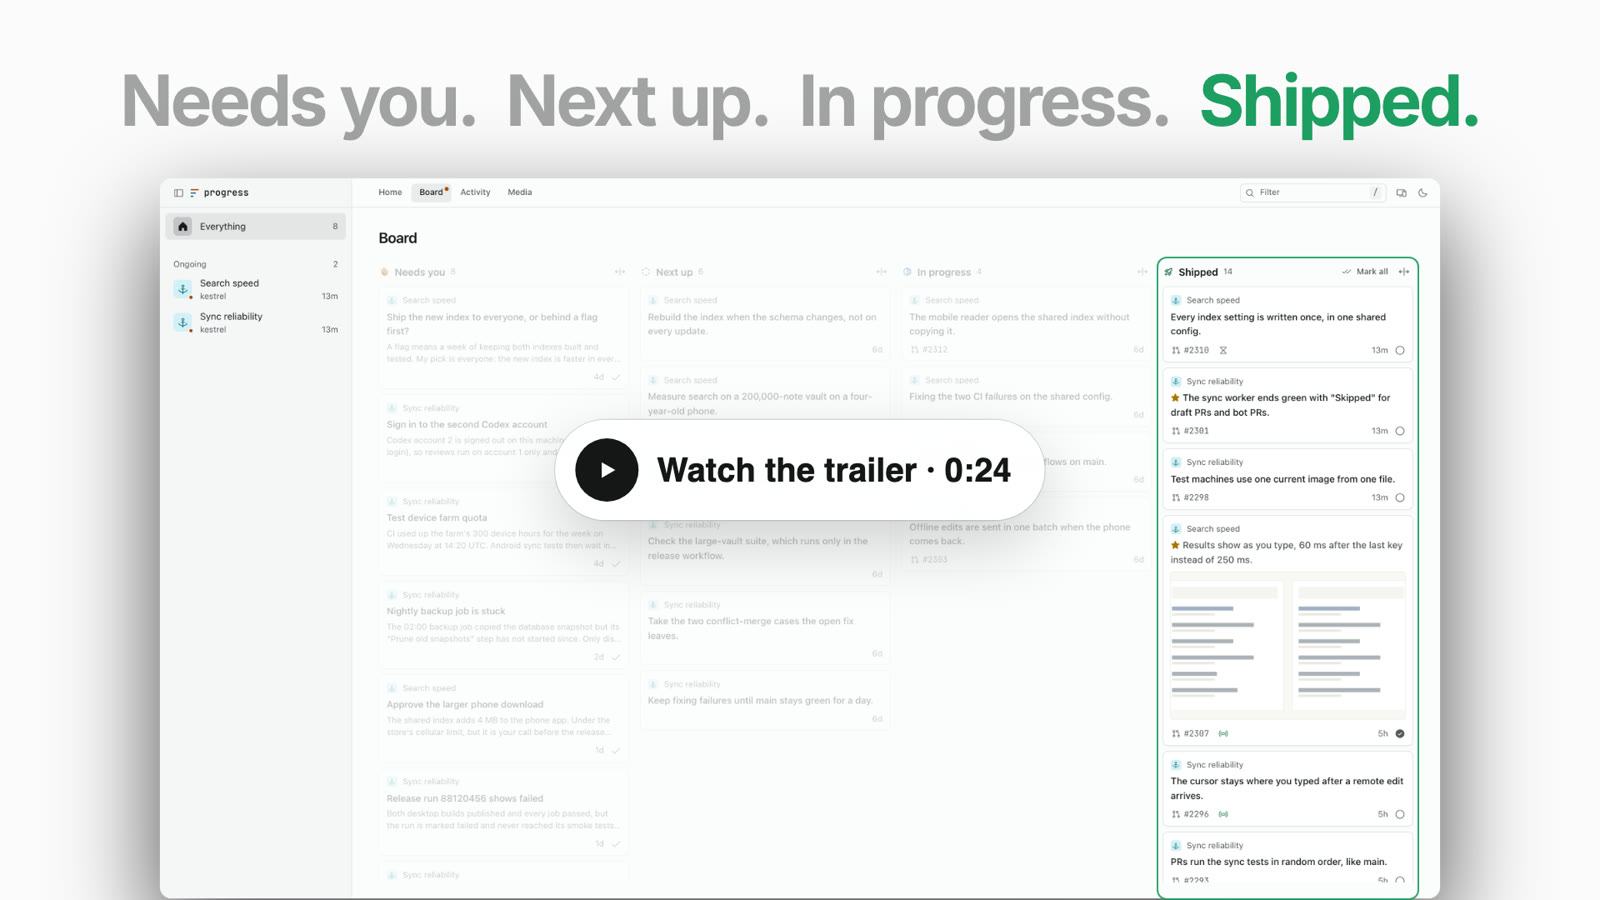
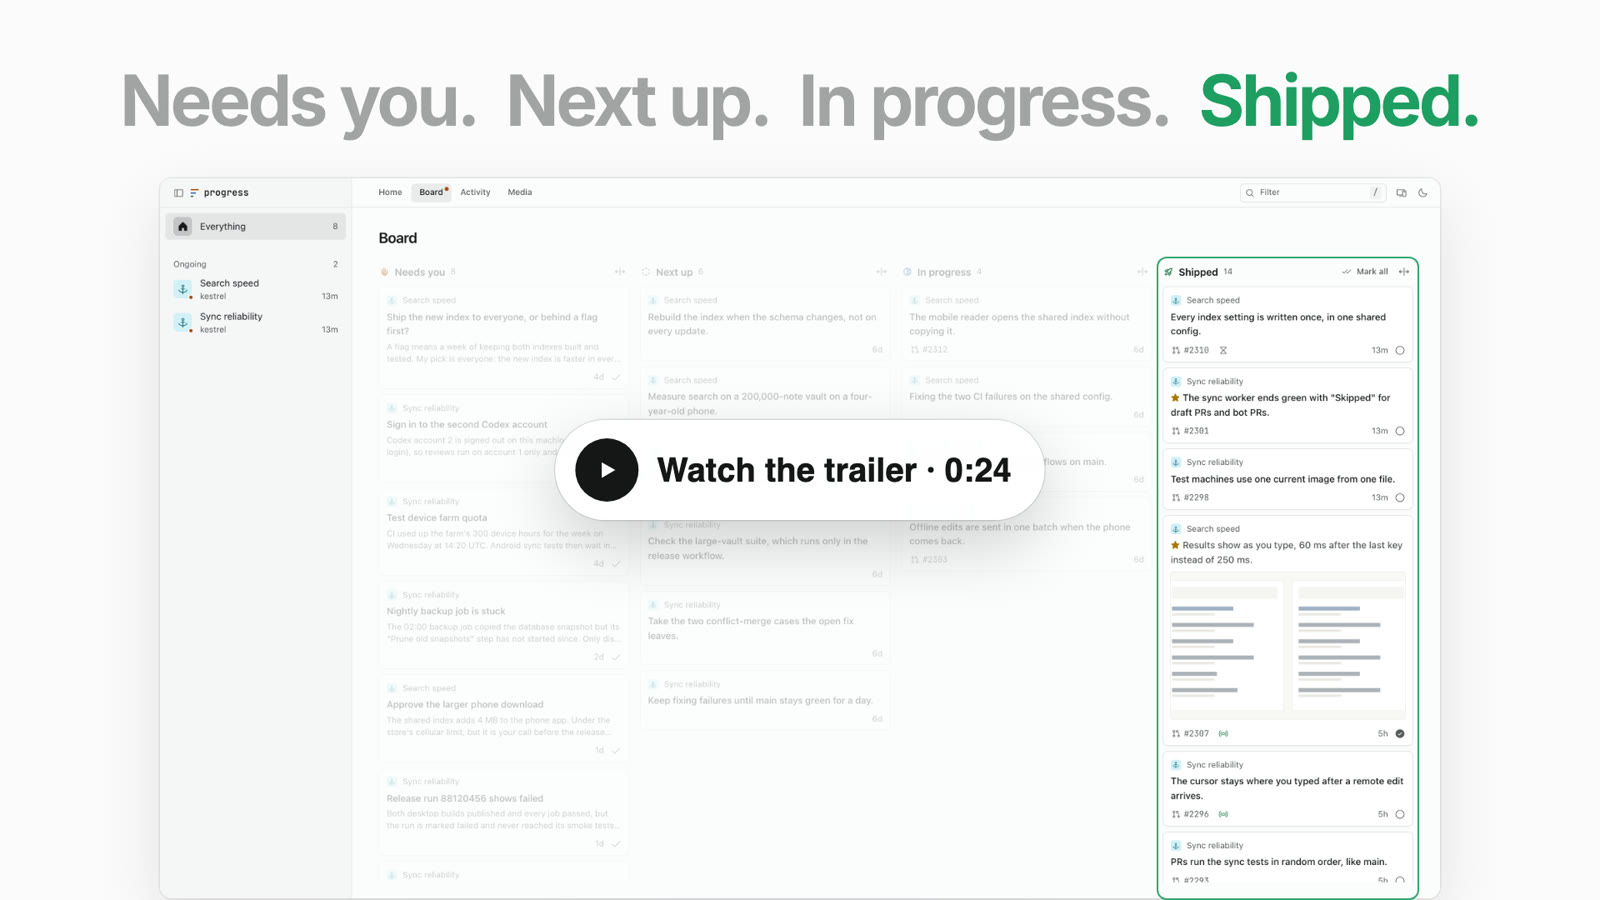
The site's screenshots open large and take the keyboard, the trailer keeps its poster until it plays, and Shipped on a phone shows its row whole

Changed region(s): [[0.0625, 0.2178, 0.75, 1.0], [0.875, 0.2178, 0.9375, 1.0], [0.1562, 0.1867, 0.8438, 0.2178]]

diff --git a/site/index.html b/site/index.html
@@ -117,6 +117,8 @@
   .play:hover .play-pill { scale: 1.03; }
   .play:active .play-pill { scale: 0.98; }
   .film[data-playing] .play { display: none; }
+  .film[data-loading] .play-dot { animation: pulse 0.9s ease-in-out infinite alternate; }
+  @keyframes pulse { to { opacity: 0.45; } }
   .play-pill { white-space: nowrap; }
   @media (max-width: 860px) { .play-pill { gap: 9px; padding: 6px 14px 6px 6px; font-size: 14px; } .play-dot { width: 30px; height: 30px; } .play-dot svg.i { width: 13px; height: 13px; } }
 
@@ -138,14 +140,14 @@
   .start { margin: 120px 0 0; padding: 72px 0 0; }
   .start h2 { text-align: center; }
   .start > p { max-width: 34em; margin: 16px auto 0; text-align: center; color: var(--muted); }
-  .prompt { position: relative; max-width: 920px; margin: 36px auto 0; padding: 22px 64px 22px 24px; border-radius: var(--radius); background: var(--surface); box-shadow: inset 0 0 0 1px var(--line); font: 450 15px/1.65 var(--mono); overflow-wrap: break-word; }
+  .prompt { position: relative; max-width: 960px; margin: 36px auto 0; padding: 22px 64px 22px 24px; border-radius: var(--radius); background: var(--surface); box-shadow: inset 0 0 0 1px var(--line); font: 450 15px/1.65 var(--mono); overflow-wrap: break-word; }
   .copy { position: absolute; top: 14px; right: 14px; display: grid; place-items: center; width: 36px; height: 36px; border: 0; border-radius: 8px; background: none; color: var(--muted); cursor: default; transition: color var(--fast), background-color var(--fast); }
   .copy:hover { color: var(--text); background: var(--bg); }
   .copy .done { display: none; color: var(--shipped); }
   .copy[data-copied] .idle { display: none; }
   .copy[data-copied] .done { display: block; }
   .sr { position: absolute; width: 1px; height: 1px; overflow: hidden; clip-path: inset(50%); white-space: nowrap; }
-  .after { max-width: 920px; margin: 18px auto 0; display: flex; flex-wrap: wrap; justify-content: space-between; gap: 8px 24px; font-size: 15px; color: var(--muted); }
+  .after { max-width: 960px; margin: 18px auto 0; display: flex; flex-wrap: wrap; justify-content: space-between; gap: 8px 24px; font-size: 15px; color: var(--muted); }
   .after a { text-underline-offset: 3px; text-decoration-color: var(--faint); }
   .after a:hover { text-decoration-color: currentColor; }
 
@@ -156,7 +158,9 @@
 
   /* The picture viewer: a picture large, with the one before and after. */
   .viewer { width: 100vw; height: 100dvh; max-width: none; max-height: none; margin: 0; padding: 0; border: 0; background: transparent; color: #fff; }
-  .viewer::backdrop { background: oklch(10% 0 0 / 0.96); }
+  .viewer::backdrop { background: oklch(10% 0 0); }
+  html:has(dialog[open]) { overflow: hidden; }
+  .zoom:focus-visible { outline: 3px solid var(--new); outline-offset: -3px; border-radius: inherit; }
   .viewer:focus { outline: none; }
   .viewer[open] { display: grid; place-items: center; }
   .viewer figure { margin: 0; display: grid; justify-items: center; gap: 14px; padding: 56px 72px 24px; }
@@ -167,7 +171,7 @@
   .viewer .close { top: 16px; right: 16px; }
   .viewer .prev { left: 16px; top: 50%; translate: 0 -50%; }
   .viewer .next { right: 16px; top: 50%; translate: 0 -50%; }
-  @media (max-width: 860px) { .viewer figure { padding: 64px 8px 72px; } .viewer img { max-width: calc(100vw - 16px); max-height: calc(100dvh - 160px); } .viewer .prev, .viewer .next { top: auto; bottom: 16px; translate: none; } }
+  @media (max-width: 860px) { .viewer[open] { place-items: center start; } .viewer figure { max-width: 100vw; overflow-x: auto; justify-items: start; padding: 64px 8px 72px; } .viewer img { max-width: none; height: min(62dvh, 520px); max-height: none; } .viewer figcaption { position: sticky; left: 0; width: calc(100vw - 16px); } .viewer .prev, .viewer .next { top: auto; bottom: 16px; translate: none; } }
 
   @media (prefers-reduced-motion: reduce) { html { scroll-behavior: auto; } }
 
@@ -188,7 +192,7 @@
     .point header > p { padding-top: 0; font-size: 16.5px; }
     .pair { grid-template-columns: 1fr; }
     /* One phone at a time, swiped. */
-    .phones { display: flex; gap: 14px; margin: 0 calc(-1 * var(--gutter)); padding: 4px var(--gutter) 24px; overflow-x: auto; scroll-snap-type: x mandatory; scrollbar-width: none; }
+    .phones { display: flex; justify-content: flex-start; gap: 14px; margin: 0 calc(-1 * var(--gutter)); padding: 4px var(--gutter) 24px; overflow-x: auto; scroll-snap-type: x mandatory; scrollbar-width: none; }
     .phones::-webkit-scrollbar { display: none; }
     .phones .frame { flex: 0 0 72%; scroll-snap-align: center; border-radius: 22px; }
     .frame { border-radius: 8px; }
@@ -253,7 +257,7 @@
           <source src="trailer-v1.mp4" type="video/mp4" />
         </video>
         <button class="play" type="button" aria-label="Play the trailer, 24 seconds">
-          <img class="lt" src="trailer-poster-light-v2.jpg" width="1920" height="1080" alt="" />
+          <img class="lt" src="trailer-poster-light-v3.jpg" width="1920" height="1080" alt="" />
           <img class="dk" src="trailer-poster-v2.jpg" width="1920" height="1080" alt="" />
           <span class="play-pill"><span class="play-dot"><svg class="i"><use href="#i-play"/></svg></span>Watch the trailer · 0:24</span>
         </button>
@@ -275,18 +279,18 @@
 
     <article class="point">
       <header>
-        <div><p class="tag" style="color:var(--shipped)"><svg class="i"><use href="#i-rocket"/></svg>Shipped</p><h2>Everything they shipped, with the screenshots.</h2></div>
+        <div><p class="tag"><svg class="i" style="color:var(--shipped)"><use href="#i-rocket"/></svg>Shipped</p><h2>Everything they shipped, with the screenshots.</h2></div>
         <p>Give Shipped the board's whole width and skim it from top to bottom. Each row has what the agent wrote, its screenshots large, its pull requests and whether the change is live. Open a card to read it in full, and step to the next with the arrow keys.</p>
       </header>
       <figure class="frame" style="margin:0">
-        <picture class="lt"><source media="(max-width: 860px)" srcset="img/shipped-row-light-v1.webp" width="1360" height="620" /><img src="img/wide-light-v2.webp" width="2880" height="1800" loading="lazy" alt="The Shipped column across the board's whole width, each change one row with its pull request, whether it is live, and its screenshots." /></picture>
-        <picture class="dk"><source media="(max-width: 860px)" srcset="img/shipped-row-v1.webp" width="1360" height="620" /><img src="img/wide-v2.webp" width="2880" height="1800" loading="lazy" alt="The Shipped column across the board's whole width, each change one row with its pull request, whether it is live, and its screenshots." /></picture>
+        <picture class="lt"><source media="(max-width: 860px)" srcset="img/shipped-row-light-v2.webp" width="1360" height="1100" /><img src="img/wide-light-v2.webp" width="2880" height="1800" loading="lazy" alt="The Shipped column across the board's whole width, each change one row with its pull request, whether it is live, and its screenshots." /></picture>
+        <picture class="dk"><source media="(max-width: 860px)" srcset="img/shipped-row-v2.webp" width="1360" height="1100" /><img src="img/wide-v2.webp" width="2880" height="1800" loading="lazy" alt="The Shipped column across the board's whole width, each change one row with its pull request, whether it is live, and its screenshots." /></picture>
       </figure>
     </article>
 
     <article class="point">
       <header>
-        <div><p class="tag" style="color:var(--new)"><svg class="i"><use href="#i-sparkle"/></svg>A task's page</p><h2>A page that opens with what changed.</h2></div>
+        <div><p class="tag"><svg class="i" style="color:var(--new)"><use href="#i-sparkle"/></svg>A task's page</p><h2>A page that opens with what changed.</h2></div>
         <p>A task's page starts with what is new since your last visit. Under that are its goal, the questions waiting for your answer, and the rest as the agent wrote it.</p>
       </header>
       <figure class="frame" style="margin:0">
@@ -353,10 +357,11 @@
 
   // The trailer: its poster (one per theme) and play button sit over the video until it is played.
   const trailer = document.getElementById('trailer');
+  const film = trailer.closest('.film');
+  trailer.addEventListener('playing', () => { film.dataset.playing = ''; trailer.controls = true; }, { once: true });
   document.querySelector('.play').addEventListener('click', () => {
-    trailer.closest('.film').dataset.playing = '';
-    trailer.controls = true;
-    trailer.play();
+    film.dataset.loading = '';
+    trailer.play().catch(() => { delete film.dataset.loading; });
   });
 
   // Pictures open large in the viewer, which steps through the ones showing in this theme.
@@ -369,14 +374,21 @@
     const list = shown();
     at = (k + list.length) % list.length;
     const img = list[at];
-    big.src = img.currentSrc || img.src;
+    big.src = img.src;
     big.alt = img.alt;
     caption.textContent = img.alt;
   };
+  let opener = null;
+  const open = img => { opener = img; view(shown().indexOf(img)); viewer.showModal(); };
   document.querySelectorAll('main .frame img').forEach(img => {
     img.classList.add('zoom');
-    img.addEventListener('click', () => { view(shown().indexOf(img)); viewer.showModal(); });
+    img.tabIndex = 0;
+    img.setAttribute('role', 'button');
+    img.setAttribute('aria-label', 'Open larger: ' + img.alt);
+    img.addEventListener('click', () => open(img));
+    img.addEventListener('keydown', e => { if (e.key === 'Enter' || e.key === ' ') { e.preventDefault(); open(img); } });
   });
+  viewer.addEventListener('close', () => { if (opener) opener.focus({ preventScroll: true }); });
   viewer.querySelector('.close').addEventListener('click', () => viewer.close());
   viewer.querySelector('.prev').addEventListener('click', () => view(at - 1));
   viewer.querySelector('.next').addEventListener('click', () => view(at + 1));
